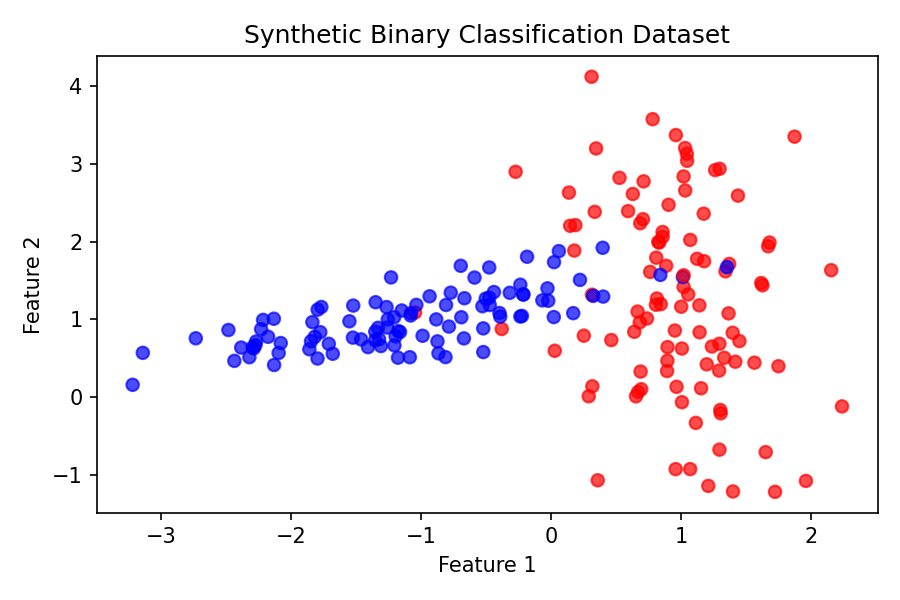
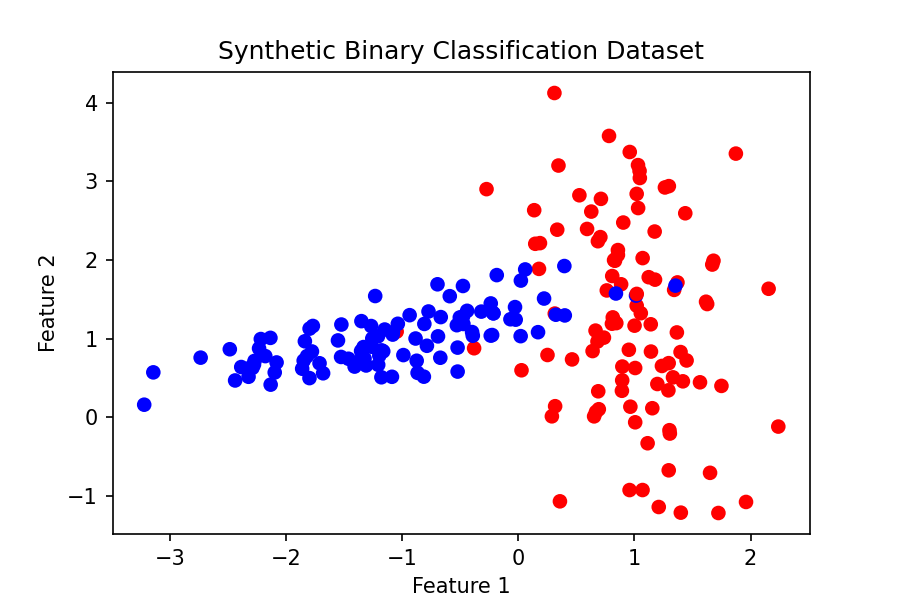
some png

diff --git a/lab2/session2_2.py b/lab2/session2_2.py
@@ -25,23 +25,38 @@ rf = RandomForestClassifier(n_estimators=500, random_state=0)
 rf.fit(X_train, y_train)
 
 y_pred = rf.predict(X_test)
-print("Accuracy:", accuracy_score(y_test, y_pred))
+#print("Accuracy:", accuracy_score(y_test, y_pred))
 
 # Evaluate
 accuracy = rf.score(X_test, y_test)
-print(" \n Accuracy:", accuracy)
+print(" \n Accuracy:", accuracy*100, "%")
 print(classification_report(y_test, y_pred))
 
+#visualization on test set
+plt.figure(figsize=(6, 4))
+plt.scatter(X_test[:, 0], X_test[:, 1], c=y_test, cmap='bwr', alpha=0.7)
+plt.title("Synthetic Binary Classification Dataset")
+plt.xlabel("Feature 1")
+plt.ylabel("Feature 2")
+plt.savefig("toy_testset.png", dpi=150)
+plt.show()
+
+
+# Visualization on entire dataset
+plt.figure(figsize=(6, 4))
 plt.scatter(X[:, 0], X[:, 1], c=y, cmap='bwr')
 plt.title("Synthetic Binary Classification Dataset")
 plt.xlabel("Feature 1")
 plt.ylabel("Feature 2")
+plt.savefig("toy_dataset.png", dpi=150)
 plt.show()
 
+#visualization on both entire dataset and test set with different markers
 plt.figure(figsize=(6, 4))
-plt.scatter(X[:, 0], X[:, 1], c=y, cmap='bwr', alpha=0.7)
+plt.scatter(X[:, 0], X[:, 1], c=y, cmap='bwr', alpha=0.7, marker='o')
+plt.scatter(X_test[:, 0], X_test[:, 1], c=y_pred, cmap='bwr', alpha=0.7, marker='x')
 plt.title("Synthetic Binary Classification Dataset")
 plt.xlabel("Feature 1")
 plt.ylabel("Feature 2")
-plt.tight_layout()
-plt.savefig("toy_dataset.png", dpi=150)
+plt.savefig("toy_dataset_testset.png", dpi=150)
+plt.show()
